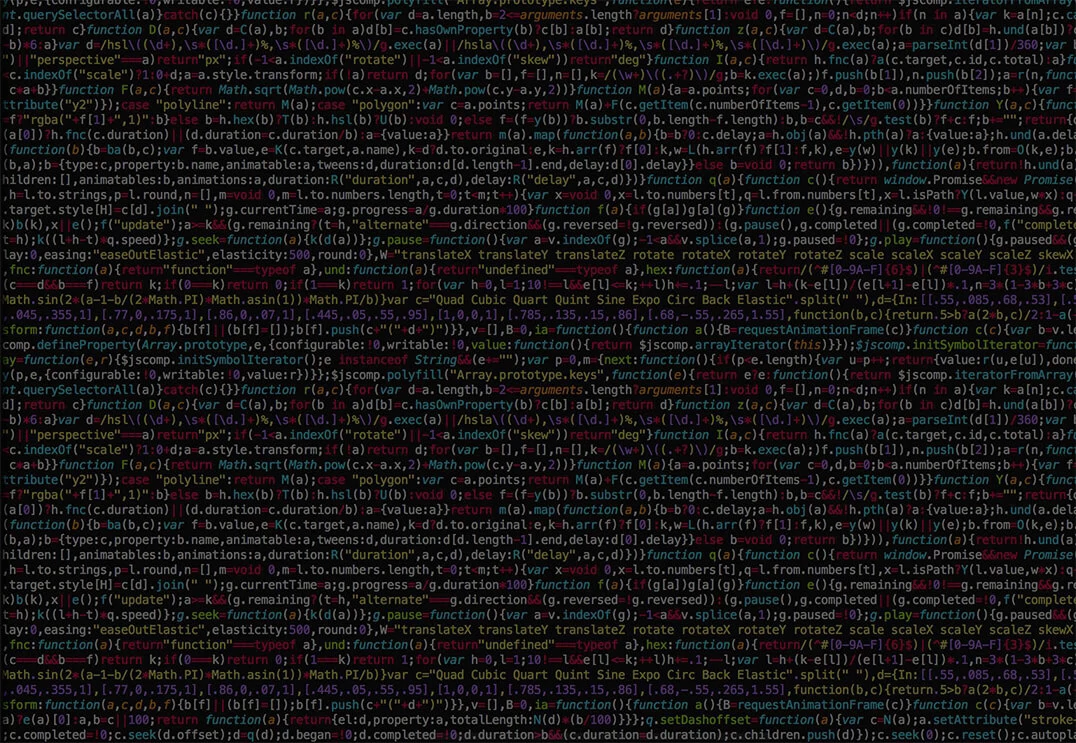
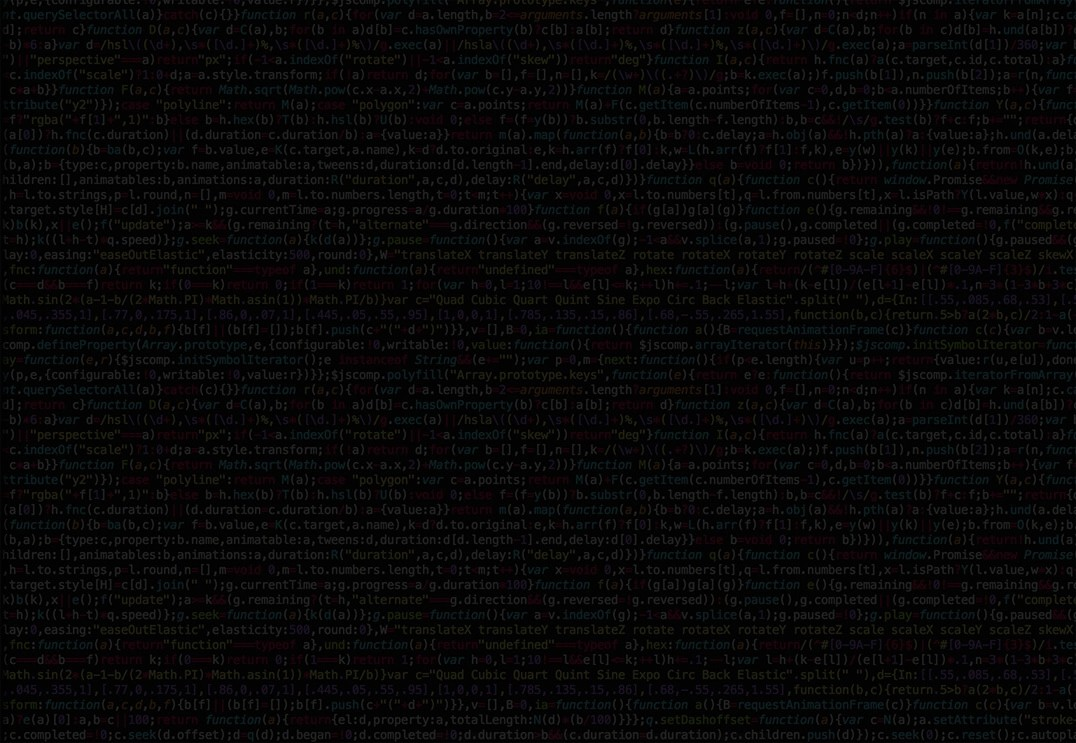
navbar and changed other prop

Changed region(s): [[0.0, 0.0, 1.0, 1.0]]

diff --git a/src/Components/Particles.js b/src/Components/Particles.js
@@ -6,13 +6,8 @@ function App() {
     <div className="App">
       <Particles
         options={particlesOptions}
-        style={{ opacity: 0.8 }}
+        style={{ opacity: 0.6 }}
         options={{
-          background: {
-            color: {
-              value: "#000000",
-            },
-          },
           fpsLimit: 100,
           interactivity: {
             events: {
@@ -24,21 +19,21 @@ function App() {
                 enable: false,
                 mode: "repulse",
               },
-              resize: true,
+              resize: false,
             },
             modes: {
               bubble: {
-                distance: 400,
+                distance: 800,
                 duration: 2,
                 opacity: 0.9,
-                size: 40,
+                size: 80,
               },
               push: {
                 quantity: 4,
               },
               repulse: {
-                distance: 200,
-                duration: 1,
+                distance: 400,
+                duration: 0.4,
               },
             },
           },
@@ -48,18 +43,19 @@ function App() {
             },
             links: {
               color: "#ffffff",
-              distance: 150,
+              distance: 140,
               enable: true,
               opacity: 0.3,
               width: 1,
             },
             collisions: {
-              enable: true,
+              enable: false,
             },
             move: {
               direction: "none",
               enable: true,
-              outMode: "bounce",
+              outMode: "out",
+              bounce: false,
               random: false,
               speed: 1,
               straight: false,
@@ -69,7 +65,7 @@ function App() {
                 enable: true,
                 value_area: 800,
               },
-              value: 80,
+              value: 40,
             },
             opacity: {
               value: 0.8,

diff --git a/src/Components/Navbar.js b/src/Components/Navbar.js
@@ -1,5 +1,5 @@
 import React from "react";
-import { Container, Row, Col } from "react-bootstrap";
+import { Container, Row, Col, Dropdown } from "react-bootstrap";
 import "../Styles/Navbar.css";
 import logo from "../Assets/code24.png";
 import { Link } from "react-router-dom";
@@ -8,7 +8,7 @@ export default function Navbar() {
     <Container className="navbar-container">
       <Row>
         <Col md="4" className="navbar-logo-col">
-          <Link to="/">
+          <Link to="/abdullahbasal">
             <img src={logo} style={{ verticalAlign: "middle" }} />{" "}
             <h5 style={{ display: "inline-block", verticalAlign: "middle" }}>
               Abdullah Başal
@@ -17,7 +17,7 @@ export default function Navbar() {
         </Col>
         <Col md="8" className="navbar-list-col">
           <ul>
-            <Link to="/">
+            <Link to="/abdullahbasal">
               <li className="navbar-li-item">Anasayfa</li>
             </Link>
             <Link to="/About">
@@ -32,6 +32,30 @@ export default function Navbar() {
           </ul>
         </Col>
       </Row>
+
+      <Dropdown
+        style={{ textAlign: "center" }}
+        className="navbar-dropdown-menu"
+      >
+        <Dropdown.Toggle variant="dark" id="dropdown-basic">
+          Menü
+        </Dropdown.Toggle>
+
+        <Dropdown.Menu>
+          <Dropdown.Item href="/abdullahbasal" style={{ textAlign: "center" }}>
+            Anasayfa
+          </Dropdown.Item>
+          <Dropdown.Item href="/About" style={{ textAlign: "center" }}>
+            Hakkımda
+          </Dropdown.Item>
+          <Dropdown.Item href="/Resume" style={{ textAlign: "center" }}>
+            Öz Geçmiş
+          </Dropdown.Item>
+          <Dropdown.Item href="/Contact" style={{ textAlign: "center" }}>
+            İletişim
+          </Dropdown.Item>
+        </Dropdown.Menu>
+      </Dropdown>
     </Container>
   );
 }

diff --git a/src/Reset.css b/src/Reset.css
@@ -1,0 +1,124 @@
+html,
+body,
+div,
+span,
+applet,
+object,
+iframe,
+h1,
+h2,
+h3,
+h4,
+h5,
+h6,
+p,
+blockquote,
+pre,
+a,
+abbr,
+acronym,
+address,
+big,
+cite,
+code,
+del,
+dfn,
+em,
+img,
+ins,
+kbd,
+q,
+s,
+samp,
+small,
+strike,
+strong,
+sub,
+sup,
+tt,
+var,
+b,
+u,
+i,
+center,
+dl,
+dt,
+dd,
+ol,
+ul,
+li,
+fieldset,
+form,
+label,
+legend,
+table,
+caption,
+tbody,
+tfoot,
+thead,
+tr,
+th,
+td,
+article,
+aside,
+canvas,
+details,
+embed,
+figure,
+figcaption,
+footer,
+header,
+hgroup,
+menu,
+nav,
+output,
+ruby,
+section,
+summary,
+time,
+mark,
+audio,
+video {
+  margin: 0;
+  padding: 0;
+  border: 0;
+  font-size: 100%;
+  font: inherit;
+  vertical-align: baseline;
+}
+/* HTML5 display-role reset for older browsers */
+article,
+aside,
+details,
+figcaption,
+figure,
+footer,
+header,
+hgroup,
+menu,
+nav,
+section {
+  display: block;
+}
+body {
+  line-height: 1;
+}
+ol,
+ul {
+  list-style: none;
+}
+blockquote,
+q {
+  quotes: none;
+}
+blockquote:before,
+blockquote:after,
+q:before,
+q:after {
+  content: "";
+  content: none;
+}
+table {
+  border-collapse: collapse;
+  border-spacing: 0;
+}

diff --git a/src/Styles/Navbar.css b/src/Styles/Navbar.css
@@ -32,8 +32,10 @@ li {
 
 /*fdsfsdf*/
 @media screen and (max-width: 768px) {
+  .navbar-list-col {
+    display: none;
+  }
   .navbar-li-item {
-    display: block;
     text-align: center;
     border-bottom: 0px !important;
   }
@@ -43,4 +45,17 @@ li {
   h1 {
     font-size: 40px !important;
   }
+  .navbar-dropdown-menu {
+    display: inline-block !important;
+  }
+}
+.navbar-dropdown-menu {
+  display: none;
+}
+
+#dropdown-basic {
+  background-color: black !important;
+  cursor: none;
+  border: 0px;
+  box-shadow: 0px;
 }

diff --git a/src/App.js b/src/App.js
@@ -1,6 +1,7 @@
 import React from "react";
 import Particles from "./Components/Particles";
 import "./App.css";
+import "./Reset.css";
 import Home from "./Pages/Home";
 import Navbar from "./Components/Navbar";
 import Cursor from "./Cursor";
@@ -19,7 +20,6 @@ function App() {
         <Container className="App">
           <Particles></Particles>
           <Cursor />
-
           <Routes>
             <Route path="/" exact element={<Home />} />
             <Route path="/Abdullahbasal" element={<Home />} />

diff --git a/src/Components/HomeComp.js b/src/Components/HomeComp.js
@@ -12,11 +12,11 @@ export default function HomeComp() {
   useEffect(() => {
     const typed = new Typed(el.current, {
       strings: [
-        "Merhaba Siteme Hoş Geldiniz",
-        "Front-end developer",
-        "Web Tasarım",
-        "Freelancer",
-        "Blogger",
+        "Merhaba Siteme Hoş Geldiniz.",
+        "Front-end developer.",
+        "Web Tasarım.",
+        "Freelancer.",
+        "Blogger.",
       ],
       startDelay: 300,
       typeSpeed: 60,

diff --git a/src/App.css b/src/App.css
@@ -3,8 +3,15 @@
   font-family: Raleway, sans-serif;
   cursor: none;
 }
+html {
+  opacity: 1;
+}
 body {
-  background-image: url(./Assets/bg.jpg);
+  background: url(./Assets/bg.jpg) !important;
+  background-color: rgba(0, 0, 0, 0.159) !important;
+  height: 100%;
+  width: 100%;
+  clear: both;
   background-size: cover;
   background-repeat: no-repeat;
 }
